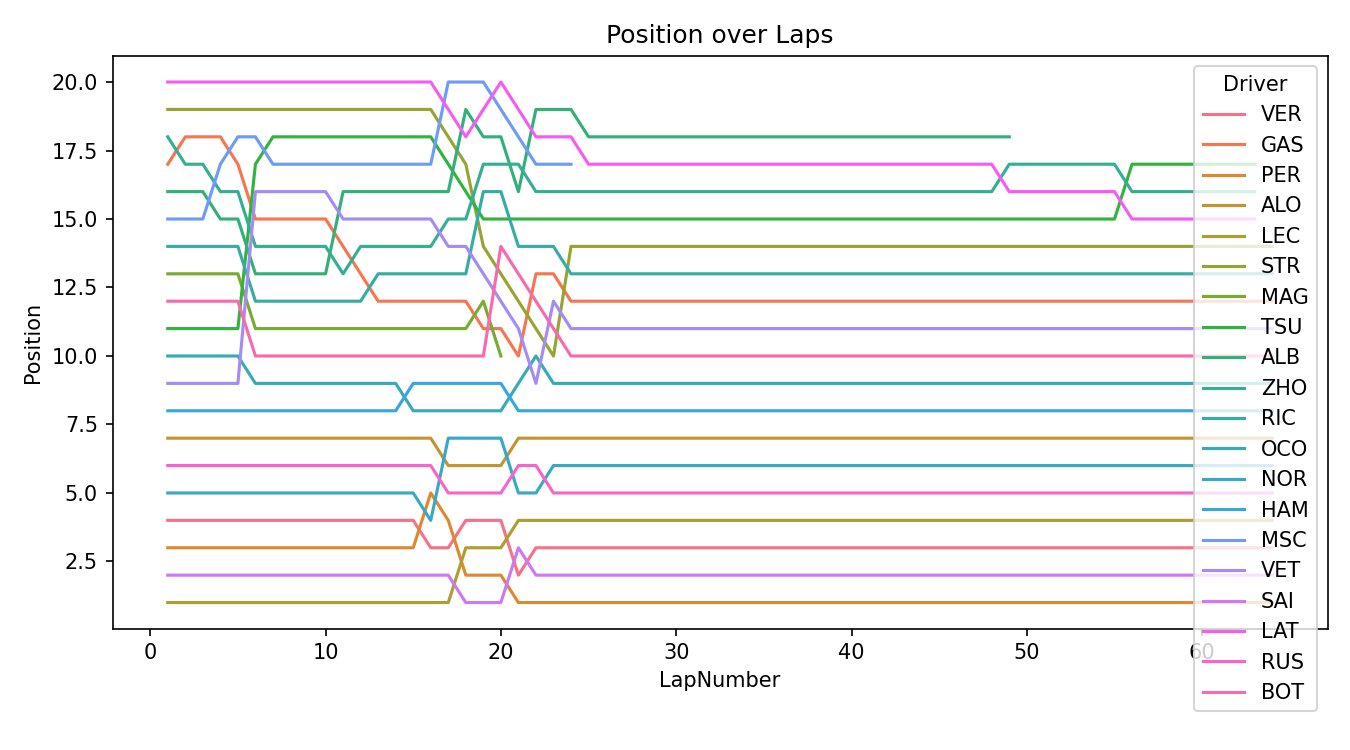
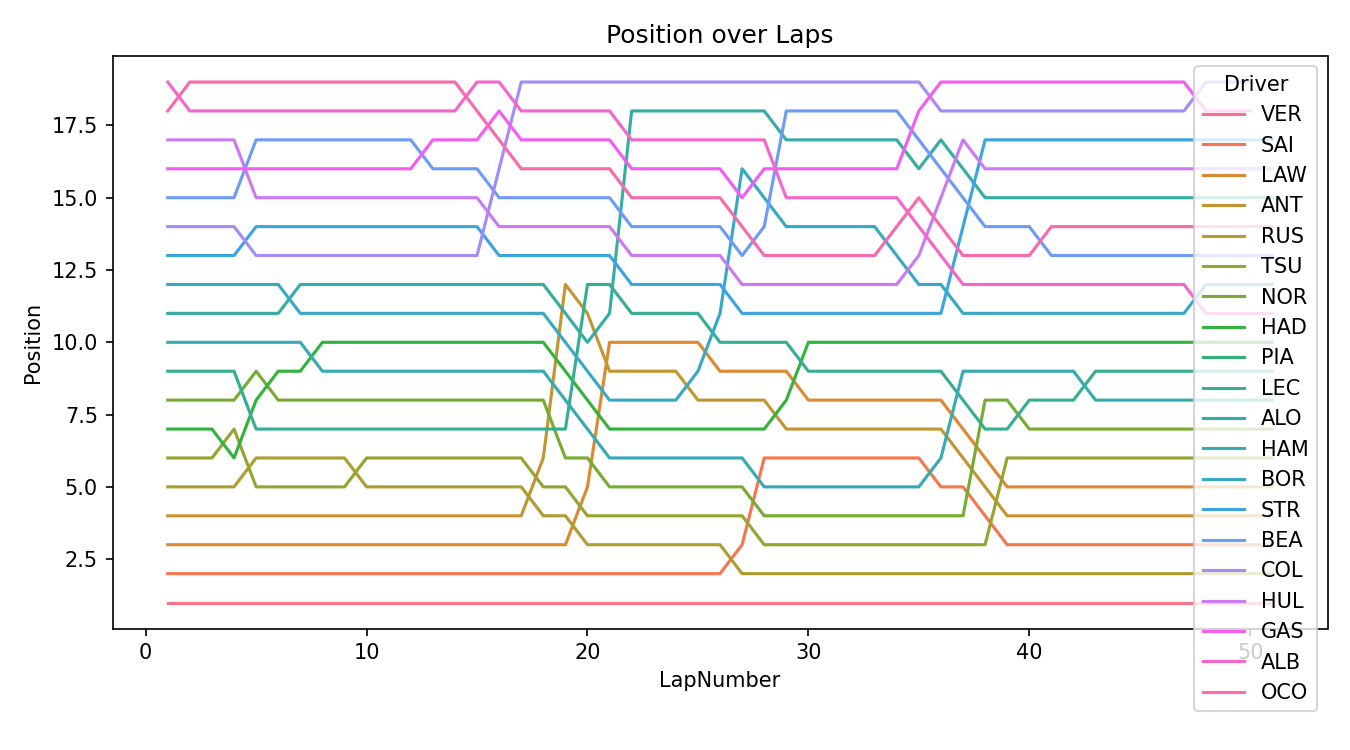
Sprint 1 D1 & D2: F1 EDA plots + stint degradation for 2025 Azerbaijan GP

diff --git a/f1_undercut/quick_eda.py b/f1_undercut/quick_eda.py
@@ -3,16 +3,16 @@
 from typing import Literal
 import matplotlib.pyplot as plt
 from src.cache import set_cache_dir, ensure_cache_dir
-from src.data_loader import get_laps_dataframe, get_pit_events
-from src.plots import plot_lap_time_distribution, plot_gap_to_ahead, plot_pit_timeline
+from src.data_loader import get_laps_dataframe, get_pit_events, get_clean_race_laps
+from src.plots import plot_lap_time_distribution, plot_gap_to_ahead, plot_pit_timeline, plot_stint_degradation
 from pathlib import Path
 
 SessionKind = Literal["FP1", "FP2", "FP3", "Q", "R"]
 
 
-def main(season: int = 2022, gp_name: str = "Monaco Grand Prix") -> None:
+def main(season: int = 2025, gp_name: str = "Azerbaijan Grand Prix") -> None:
 	"""Produce the three quick EDA plots for Deliverable 1."""
-	cache_dir = Path("f1_undercut/data")
+	cache_dir = Path("data")
 	ensure_cache_dir(cache_dir)
 	set_cache_dir(cache_dir)
 
@@ -20,20 +20,33 @@ def main(season: int = 2022, gp_name: str = "Monaco Grand Prix") -> None:
 	pit_events = get_pit_events(season, gp_name)
 
 	plot_lap_time_distribution(laps, by="Compound")
-	plt.savefig("f1_undercut/reports/lap_time_distribution.png", dpi=150)
+	plt.savefig("reports/lap_time_distribution.png", dpi=150)
 	plt.close()
 
 	plot_gap_to_ahead(laps, driver=None)
-	plt.savefig("f1_undercut/reports/gap_over_laps.png", dpi = 150)
+	plt.savefig("reports/gap_over_laps.png", dpi = 150)
 	plt.close()
 
 	plot_pit_timeline(pit_events)
-	plt.savefig("f1_undercut/reports/pit_timeline.png", dpi = 150)
+	plt.savefig("reports/pit_timeline.png", dpi = 150)
 	plt.close()
 
+def stint_degradation_main(season: int = 2025, gp_name: str = "Azerbaijan Grand Prix") -> None:
+	cache_dir = Path("data")
+	ensure_cache_dir(cache_dir)
+	set_cache_dir(cache_dir)
+	
+	out_dir = Path("reports")
+	out_dir.mkdir(parents=True, exist_ok=True)
+
+	df = get_clean_race_laps(season, gp_name)
+	plot_stint_degradation(df)
+	plt.savefig(out_dir / "stint_degradation.png", dpi=150)
+	plt.close()
 
 if __name__ == "__main__":
-	# Keep empty for now; CLI will be added later.
-	main()
+	# Run both D1 and D2 plots
+	main()  # D1: lap time distribution, gap over laps, pit timeline
+	stint_degradation_main()  # D2: stint degradation curves
 
 

diff --git a/f1_undercut/src/data_loader.py b/f1_undercut/src/data_loader.py
@@ -23,7 +23,7 @@ def cache_session(
 ) -> Path:
 	"""Download and cache a session; return a marker or path to cached files."""
 	_=load_session(season, gp_name, session)
-	return cache_dir if cache_dir else Path("f1_undercut/data")
+	return cache_dir if cache_dir else Path("data")
 
 
 def get_laps_dataframe(season: int, gp_name: str, session: SessionKind):
@@ -43,3 +43,39 @@ def get_pit_events(season: int, gp_name: str):
 		pits = pits[(pits["LapNumber"] >= 1)]
 	return pits.reset_index(drop=True)
 
+
+def get_clean_race_laps(season: int, gp_name: str) -> pd.DataFrame:
+	# 1) Load race laps
+	df = get_laps_dataframe(season, gp_name, "R").copy()
+
+	# 2) Keep valid laps (LapTime present)
+	if "LapTime" in df.columns:
+		# Convert to Timedelta if needed
+		if not pd.api.types.is_timedelta64_dtype(df["LapTime"]):
+			df["LapTime"] = pd.to_timedelta(df["LapTime"])
+		df = df[df["LapTime"].notna()]
+
+	# Drop in-laps and out-laps to avoid noisy times
+	for col in ("PitInTime", "PitOutTime"):
+		if col in df.columns:
+			df = df[df[col].isna()]
+
+	# Optional: remove SC/VSC laps if TrackStatus available (code '4','5' often SC/VSC)
+	if "TrackStatus" in df.columns:
+		df = df[~df["TrackStatus"].astype(str).isin(["4", "5"])]
+
+	# 3) Stint-lap index per driver and stint
+	for c in ("Driver", "Stint"):
+		if c not in df.columns:
+			# If Stint missing, you can approximate by cumulative compound change,
+			# but for D2 assume it’s present.
+			pass
+	df = df.sort_values(["Driver", "Stint", "LapNumber"])
+	df["StintLap"] = df.groupby(["Driver", "Stint"]).cumcount() + 1
+
+	# 4) Lap time in seconds
+	df["LapTime_s"] = df["LapTime"].dt.total_seconds()
+
+	# Keep only needed columns
+	keep = [c for c in ["Driver", "LapNumber", "LapTime", "LapTime_s", "Compound", "Stint", "StintLap"] if c in df.columns]
+	return df[keep]

diff --git a/f1_undercut/src/plots.py b/f1_undercut/src/plots.py
@@ -1,6 +1,7 @@
 """Plotting utilities for EDA (signatures only)."""
 
 import pandas as pd
+import numpy as np
 from typing import Optional
 import matplotlib.pyplot as plt
 import seaborn as sns
@@ -47,4 +48,27 @@ def plot_pit_timeline(pit_events: pd.DataFrame):
 	plt.figure(figsize=(9,5))
 	sns.stripplot(data=pit_events, x="LapNumber", y="Driver", hue="Compound" if "Compound" in pit_events.columns else None, dodge=True)
 	plt.title("Pit Stop Timeline")
+	plt.tight_layout()
+
+def plot_stint_degradation(df: pd.DataFrame):
+	# 5) Aggregate median and IQR per compound and stint-lap
+	grp = (
+		df.groupby(["Compound", "StintLap"])["LapTime_s"]
+		.agg(median="median", p25=lambda x: np.percentile(x, 25), p75=lambda x: np.percentile(x, 75))
+		.reset_index()
+	)
+
+	plt.figure(figsize=(10, 6))
+	compounds = grp["Compound"].unique().tolist()
+	palette = sns.color_palette("tab10", n_colors=len(compounds))
+
+	for color, compound in zip(palette, compounds):
+		sub = grp[grp["Compound"] == compound]
+		plt.plot(sub["StintLap"], sub["median"], label=compound, color=color, linewidth=2)
+		plt.fill_between(sub["StintLap"], sub["p25"], sub["p75"], color=color, alpha=0.2)
+
+	plt.xlabel("Stint Lap (index within stint)")
+	plt.ylabel("Lap Time (s)")
+	plt.title("Stint Degradation by Compound (median with IQR)")
+	plt.legend(title="Compound")
 	plt.tight_layout()

diff --git a/f1_undercut/download_cache.py b/f1_undercut/download_cache.py
@@ -9,10 +9,10 @@ SessionKind = Literal["FP1", "FP2", "FP3", "Q", "R"]
 
 
 def main(
-	season: int = 2023,
-	gp_name: str = "Bahrain Grand Prix",
+	season: int = 2025,
+	gp_name: str = "Azerbaijan Grand Prix",
 	sessions: list[SessionKind] | None = None,
-	cache_dir: Path | None = Path("f1_undercut/data"),
+	cache_dir: Path | None = Path("data"),
 ) -> None:
 	"""Parameterized entry point to cache one GP's sessions."""
 	ensure_cache_dir(cache_dir)
